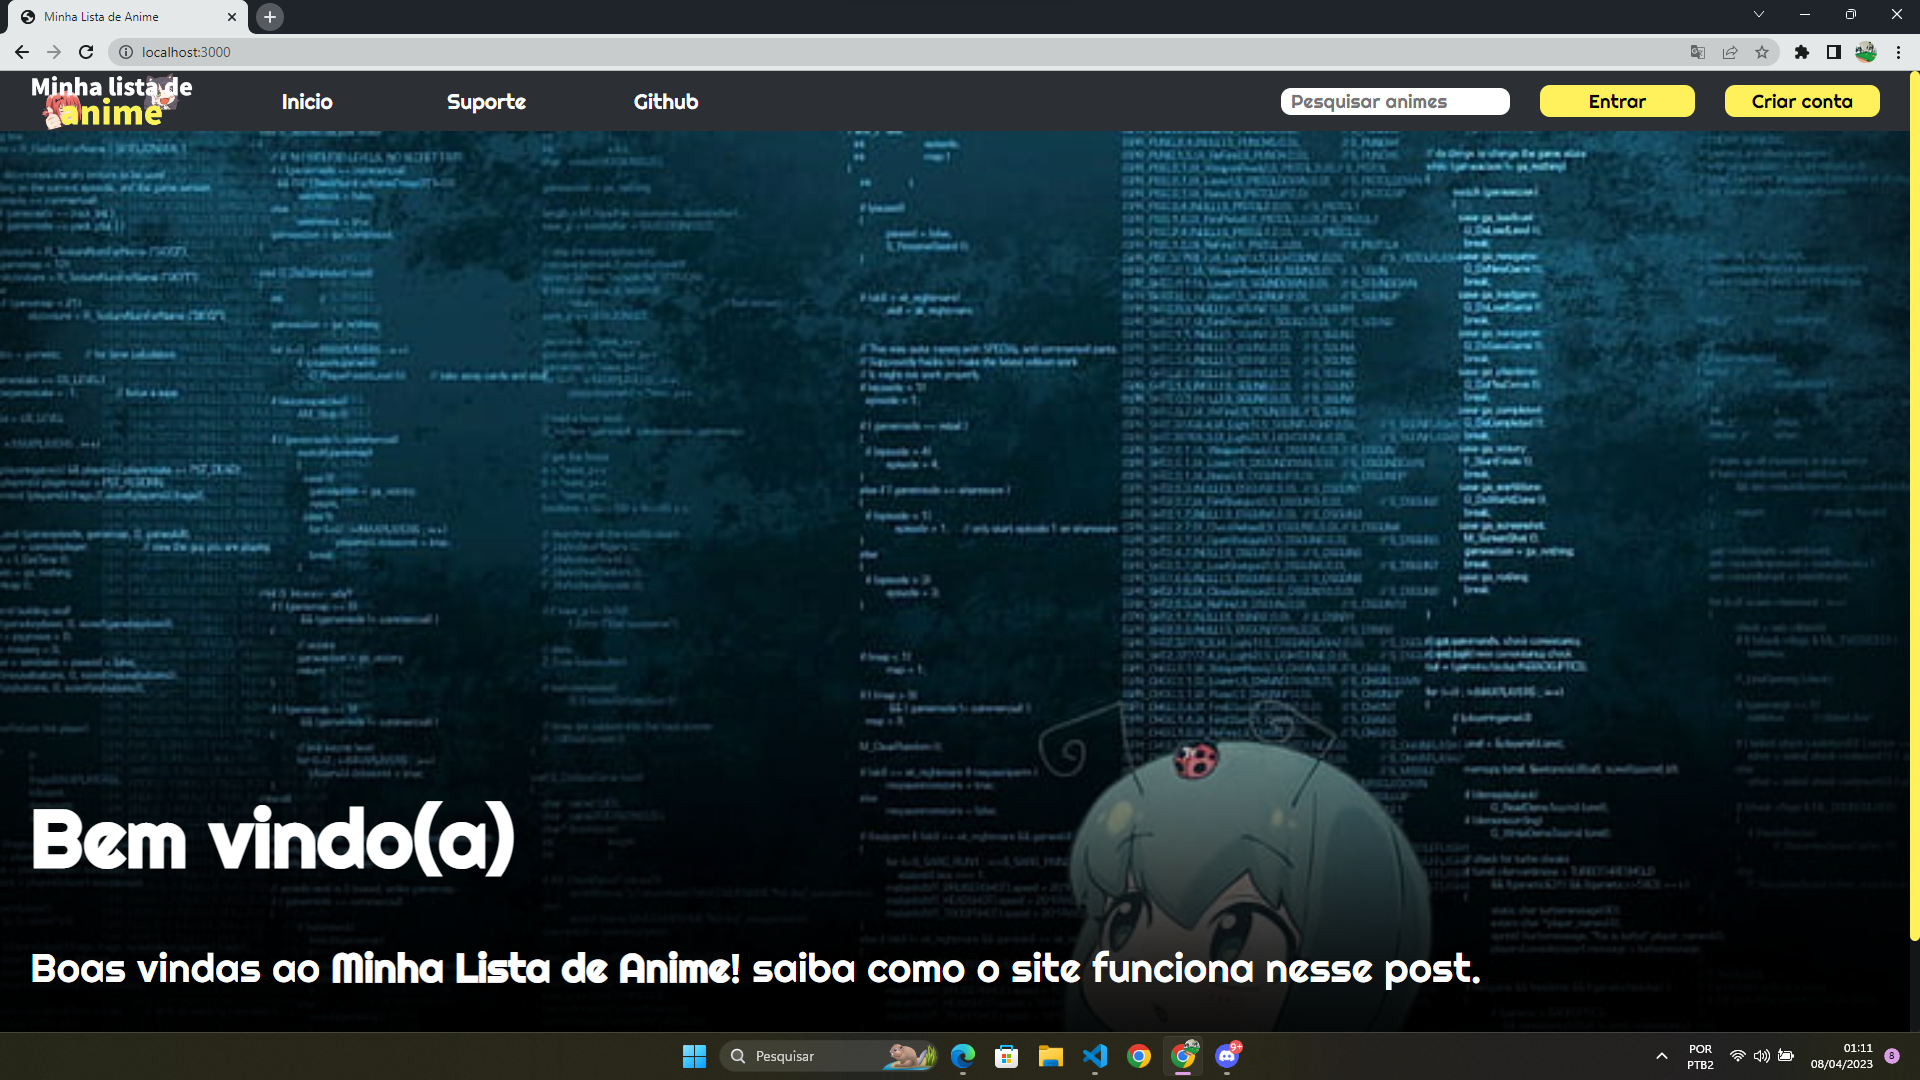
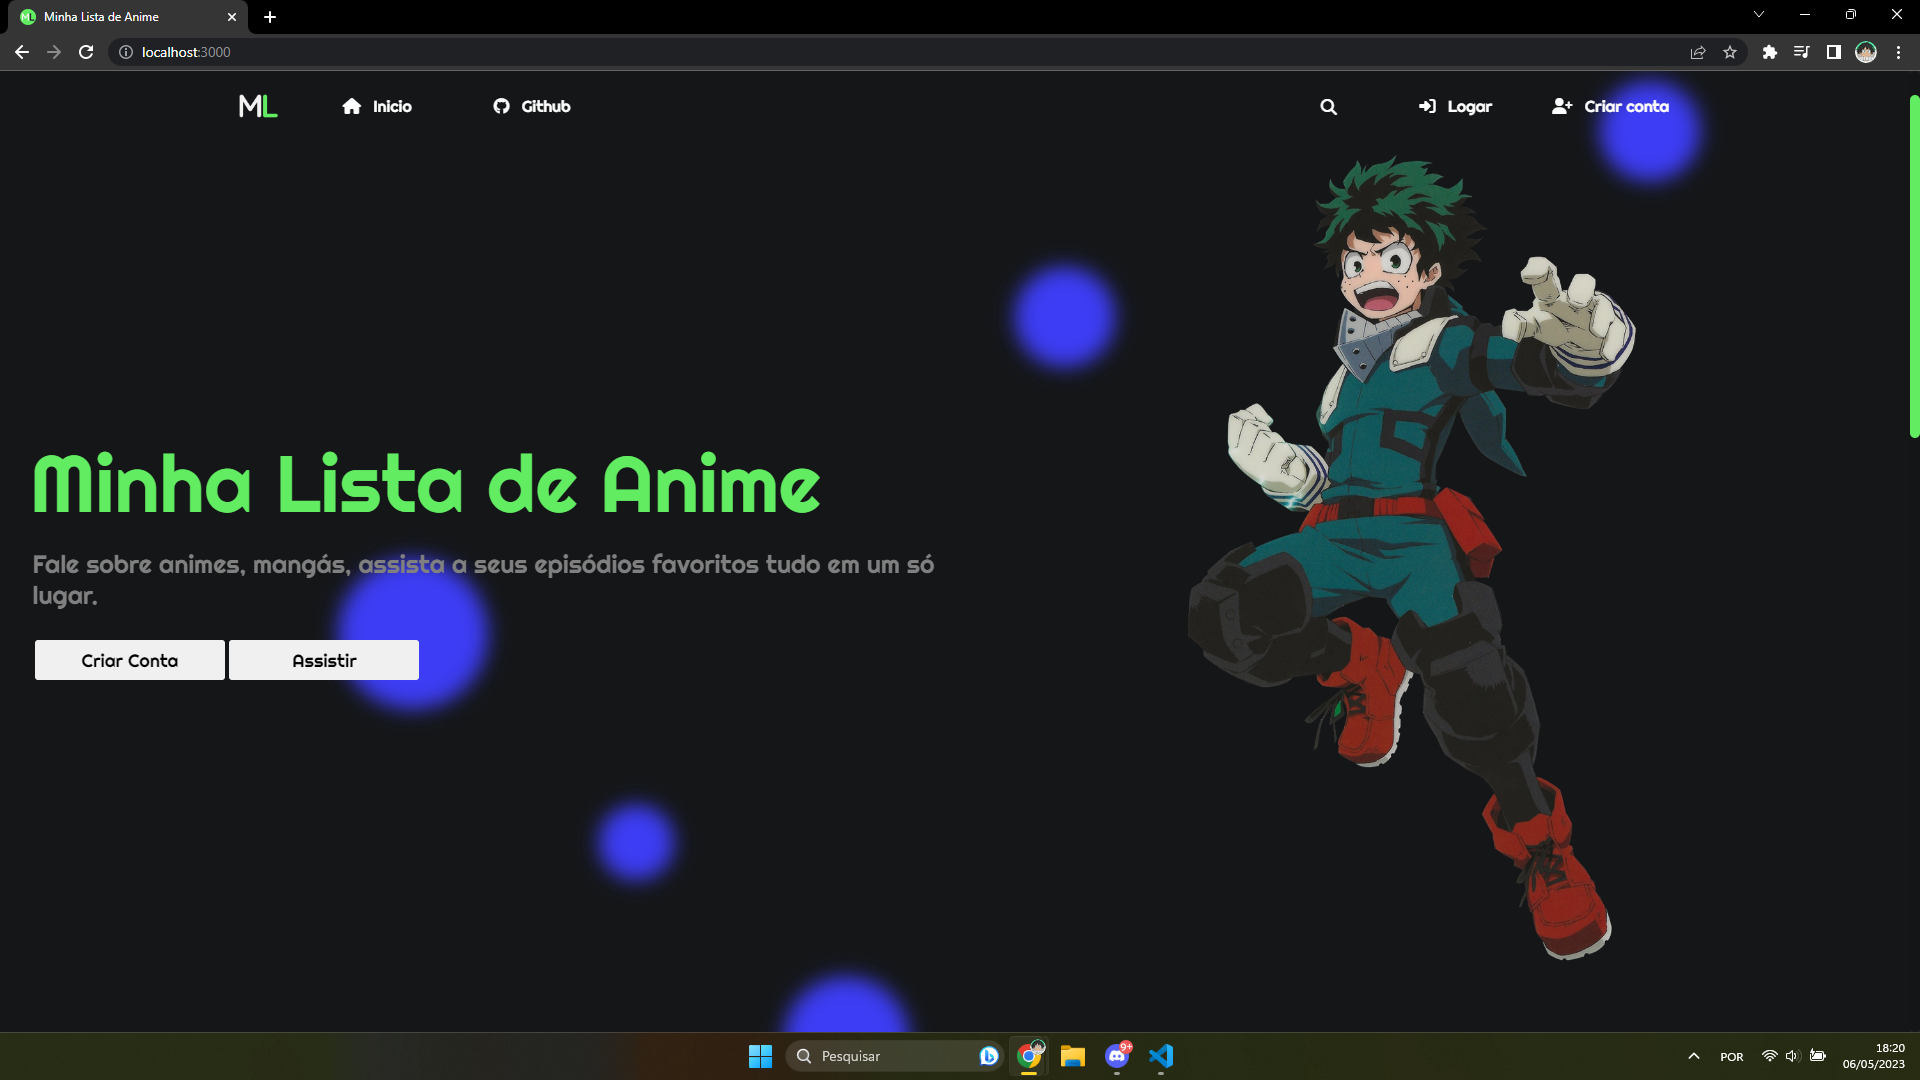
:)

diff --git a/src/public/css/home.css b/src/public/css/home.css
@@ -1,13 +1,104 @@
 /* 
     Estilo da página principal (/)
 */
-.welcome {
+
+.initial-welcome {
+    overflow: hidden;
+    z-index: 1;
+    height: 100vh;
     width: 100%;
-    height: calc(100vh);;
-    background-repeat: no-repeat;
-    background-size: cover;
-    transition: background-image 1s;
+    background: #141618;
+    display: flex;
+    justify-content: space-between;
 }
+
+.left-side h1 {
+    margin-left: 70px !important;
+    width: 100%;
+    font-weight: 100;
+    color: rgb(98, 236, 98);
+    margin: 10px;
+    font-size: 80px;
+}
+
+.left-side h4 {
+    margin-bottom: 30px !important;
+    margin-left: 70px !important;
+    width: 100%;
+    font-weight: 100;
+    color: gray;
+    margin: 5px;
+    font-size: 25px;
+}
+
+.left-side {
+    z-index: 2;
+    width: 50%;
+    display: flex;
+    justify-content: center;
+    flex-direction: column;
+    align-items: center;
+}
+
+.right-side img {
+    width: 60%;
+    margin: 150px;
+}
+
+.right-side {
+    z-index: 2;
+    width: 50%;
+    display: flex;
+    align-items:center;
+}
+.buttons-landing:first-child {
+    background: red;
+}
+.buttons-landing button {
+    cursor: pointer;
+    font-size: large;
+    border: none;
+    width: 190px;
+    border-radius: 3px;
+    height: 40px;
+}
+
+.buttons-landing {
+    margin-left: 70px;
+    width: 100%;
+}
+
+@keyframes bola_passando {
+    from {
+        left: -15%;
+    }
+
+    to {
+        left: 100%;
+    }
+}
+.animacao {
+    width: 100%;
+    height: 100%;
+    position: absolute;
+    overflow: hidden;
+}
+.barras {
+    filter: blur(10px);
+    z-index: 1;
+    animation: bola_passando infinite ease-in-out;
+    background: rgb(61, 61, 245);
+    position: relative;
+    width: 120px;
+    height: 120px;
+    border-radius: 50%;
+}
+@media screen and (max-width: 1090px) {
+    .right-side {
+        display: none;
+    }
+}
+
 .main-screen h3 {
     color: white;
 }

diff --git a/src/public/js/home.js b/src/public/js/home.js
@@ -4,24 +4,9 @@ $(document).ready(function () {
         e.preventDefault();
         $('html, body').animate({ scrollTop:  1050 }, 1000)
     });
-    const banners = ['images/banners/banner01.gif', 'images/banners/banner02.gif', 'images/banners/banner03.gif', 'images/banners/banner04.gif', 'images/banners/banner05.gif', 'images/banners/banner06.gif', 'images/banners/banner07.gif']
-    let i = 0
-    setInterval(() => {
-        $('.welcome').css('background-image', `url(${banners[i]})`)
-        i++
-        if (i == banners.length - 1) i = 0
-    }, 3000)
-    var j = 0;
-    var txt = 'Bem vindo(a) ao Minha Lista de Anime! 💚';
-    var speed = 100;
-
-    function typeWriter() {
-        if (j < txt.length) {
-            document.getElementById("welcome-text").innerHTML += txt.charAt(j);
-            j++;
-            setTimeout(typeWriter, speed);
-        }
-        twemoji.parse(document.body)
+    const banners = ['images/personagens/anime1.png', 'images/personagens/anime2.png', 'images/personagens/anime3.png', 'images/personagens/anime4.png', 'images/personagens/anime5.png', 'images/personagens/anime6.png']
+    $("#personagem").attr("src", banners[Math.floor(Math.random() * banners.length)])
+    for(i of $(".barras")){
+        i.style.animationDuration = `${Math.floor(Math.random() * 12) + 3}s`
     }
-    typeWriter()
 })

diff --git a/src/Controllers/AnimeController.ts b/src/Controllers/AnimeController.ts
@@ -21,6 +21,7 @@ export default class AnimeController {
             const anime = await Anime.getAnimeById(id)
             const episodes = await Anime.getAnimeEpisodes(anime.id, page)
             res.render('animepageinfo', { anime, episodes: episodes })
+            console.log(anime.attributes)
         } catch (e) {
             console.log(e)
             res.send('Aconteceu um erro no lado do servidor que impediu essa ação, <a href="/">Clique aqui</a> para voltar a página inicial')

diff --git a/src/public/css/animepageinfo.css b/src/public/css/animepageinfo.css
@@ -139,20 +139,11 @@
     -webkit-text-stroke: 1px black;
 }
 
-.anime-desc>p {
-    padding-right: 5px;
-    max-height: 344.64px;
-    word-break: break-all;
-    overflow-x: hidden;
-    overflow-y: scroll;
-    margin-top: 0px;
-}
-
 .anime-desc {
     max-height: 424.64px;
+    width: 700px;
     position: relative;
     text-align: justify;
-    max-width: 700px;
     padding-left: 40px;
 }
 

diff --git a/src/public/css/navbar.css b/src/public/css/navbar.css
@@ -15,7 +15,7 @@ nav:hover {
 
 nav {
     transition: all 0.5s;
-    z-index: 2;
+    z-index: 3;
     top: 0px;
     justify-content: space-between;
     position: sticky;

diff --git a/README.md b/README.md
@@ -46,7 +46,7 @@ http://127.0.0.1:3000/
 http://localhost:3000/
 ```
 
-*Ao acessar você tabém vera algo parecido com isso (Captura de tela tirada em 08/04/2023):*
+*Ao acessar você tabém vera algo parecido com isso (Captura de tela tirada em 06/05/2023):*
 
 <img src="images/anime3.png" width="600px" style="display: block; margin: auto;">
 <br><br>
